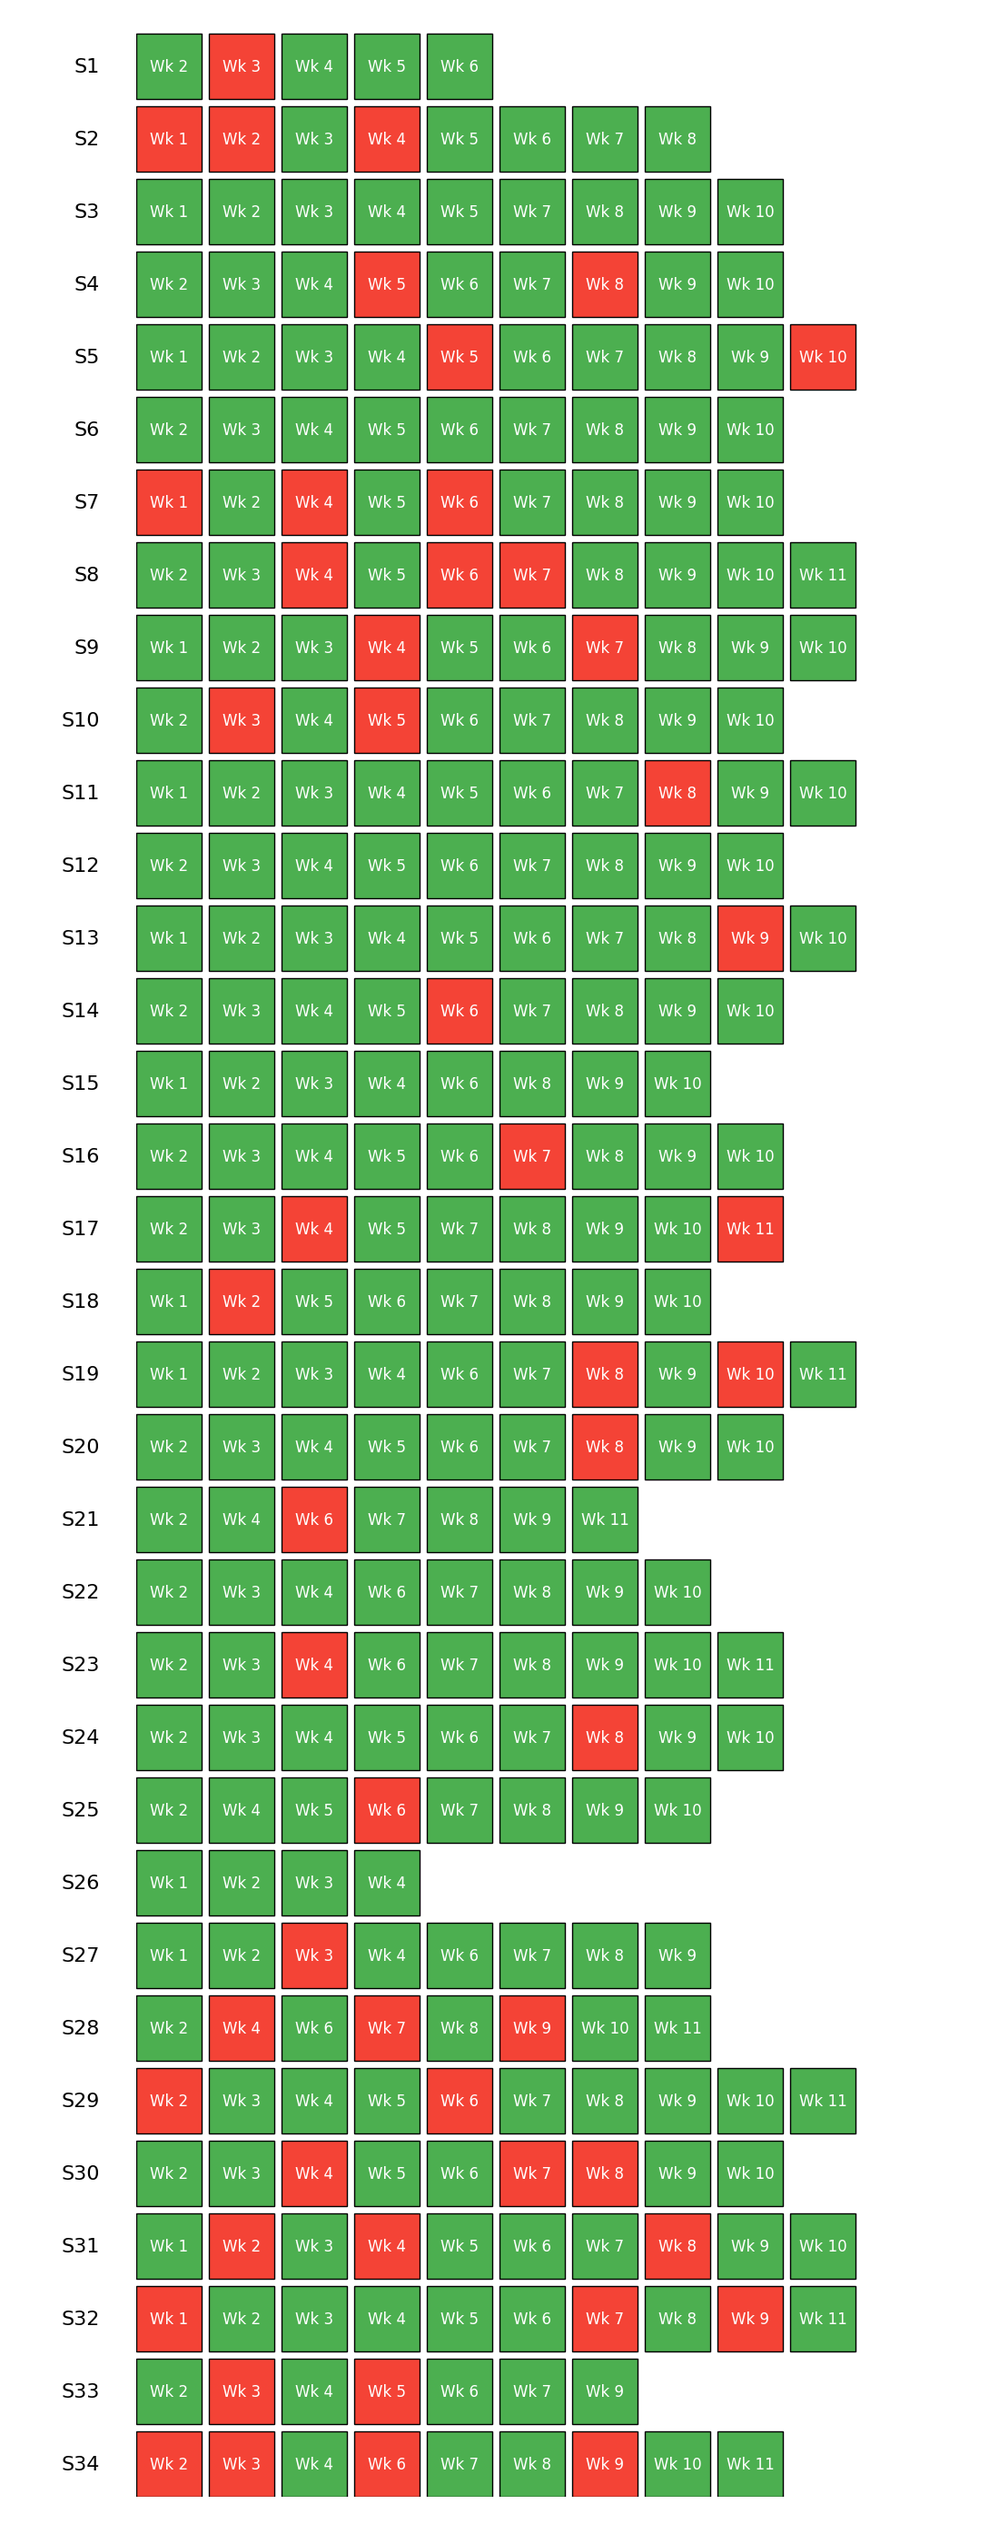
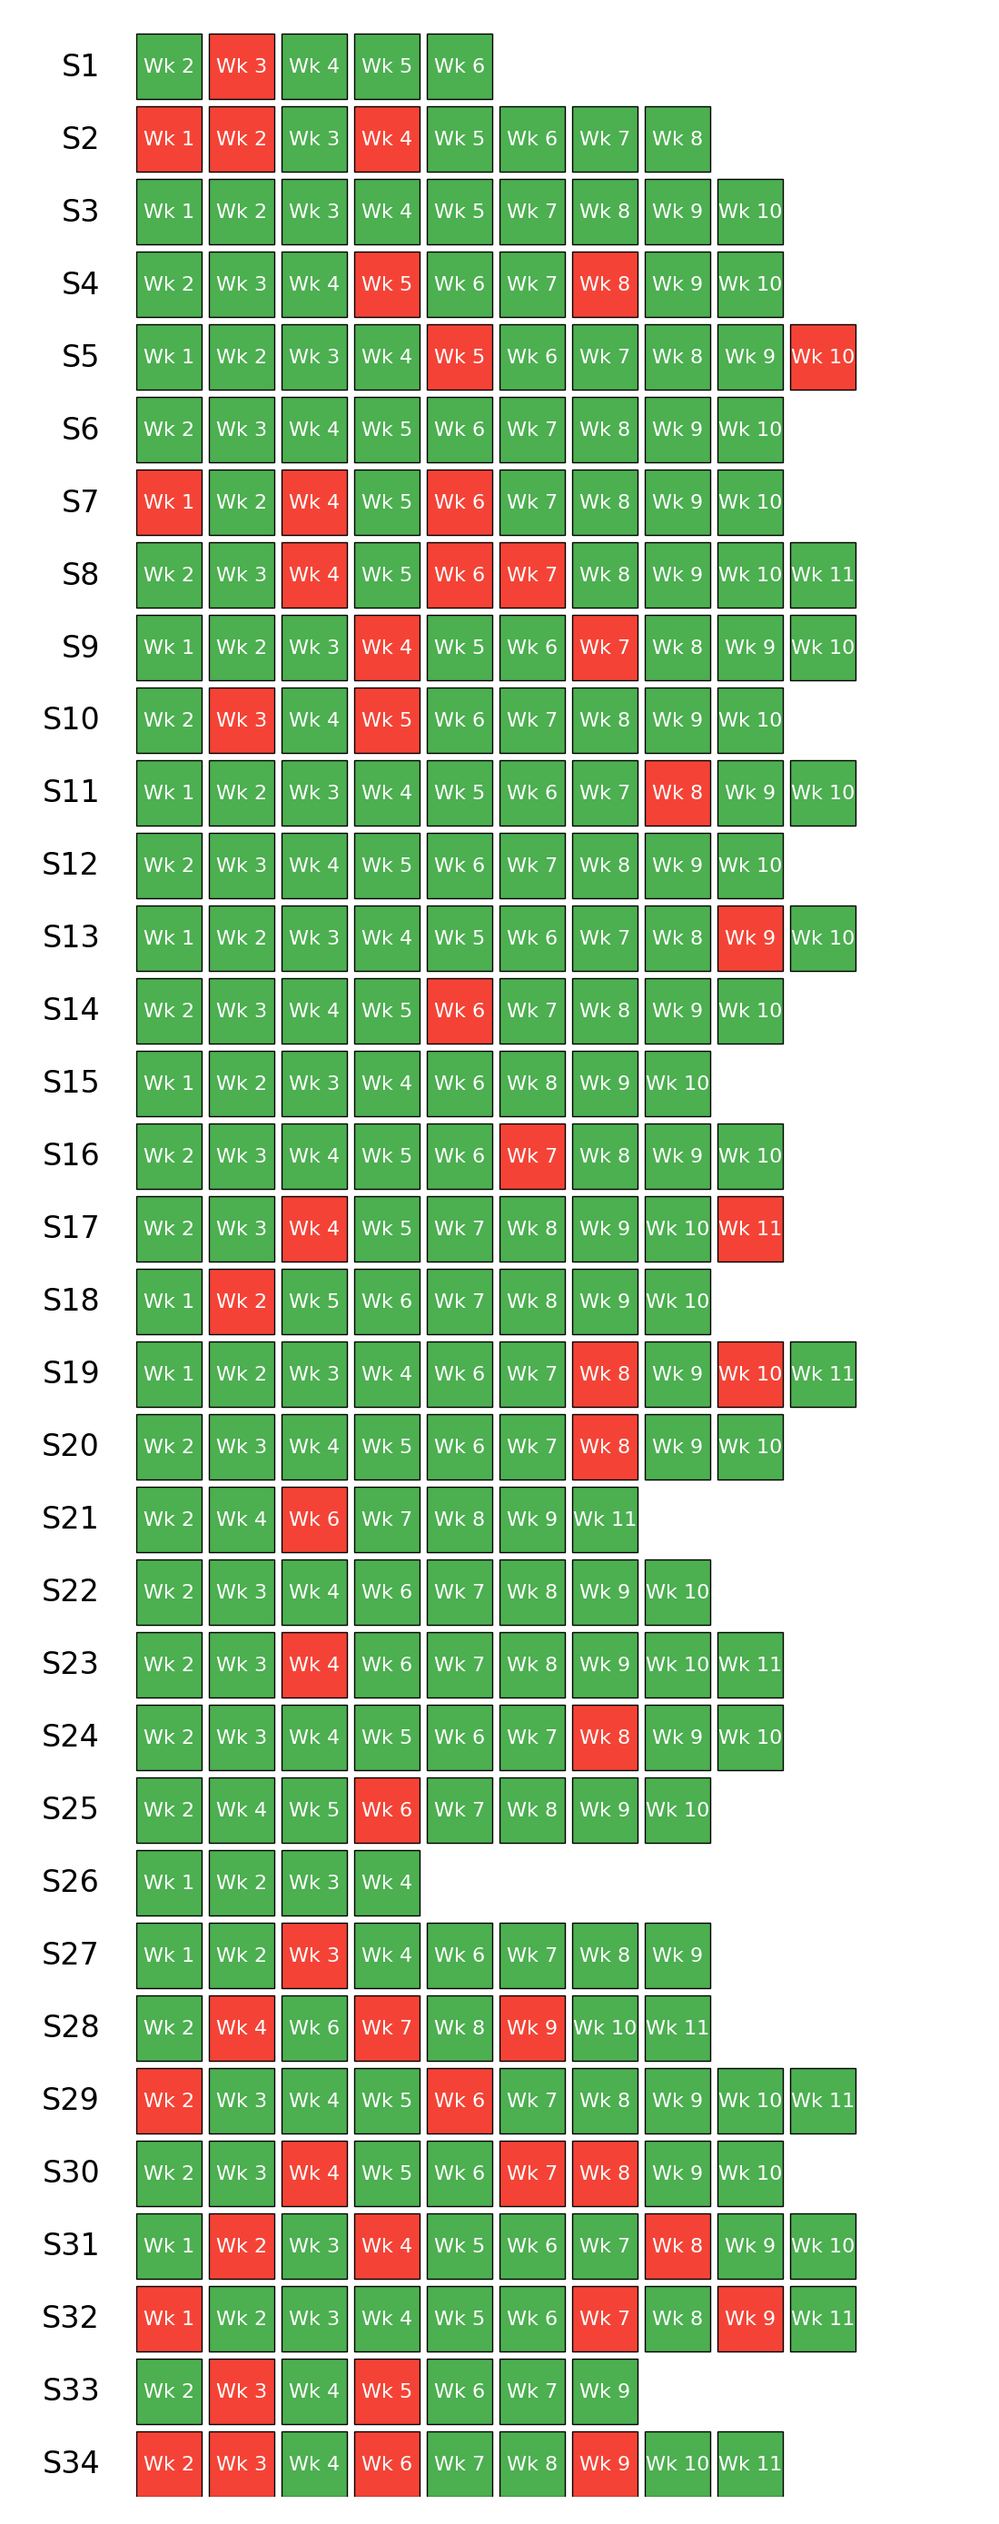
2.2 J/gamma图合并

diff --git a/train.py b/train.py
@@ -310,9 +310,9 @@ def plot_accuracy_grid(per_season_squares: Dict[int, List[Dict]], out_path: str)
                 rect = plt.Rectangle((col_idx, len(seasons_col)-1-row_idx), 0.9, 0.9, facecolor=color, edgecolor='black', linewidth=0.5)
                 ax.add_patch(rect)
                 label = f"Wk {cell['week']}" if not cell["is_champion"] else "Champ"
-                ax.text(col_idx+0.45, len(seasons_col)-1-row_idx+0.45, label, ha='center', va='center', fontsize=6, color='white')
+                ax.text(col_idx+0.45, len(seasons_col)-1-row_idx+0.45, label, ha='center', va='center', fontsize=8, color='white')
             # 标注赛季号
-            ax.text(-0.5, len(seasons_col)-1-row_idx+0.45, f"S{s}", ha='right', va='center', fontsize=8)
+            ax.text(-0.5, len(seasons_col)-1-row_idx+0.45, f"S{s}", ha='right', va='center', fontsize=12)
 
     draw_column(axes[0][0], left_seasons)
     # 右列可能为空（当季数 <= rows_per_col）
@@ -354,8 +354,8 @@ def plot_accuracy_grid_single_column(per_season_squares: Dict[int, List[Dict]], 
             rect = plt.Rectangle((col_idx, len(seasons)-1-row_idx), 0.9, 0.9, facecolor=color, edgecolor='black', linewidth=0.5)
             ax.add_patch(rect)
             label = f"Wk {cell['week']}" if not cell["is_champion"] else "Champ"
-            ax.text(col_idx+0.45, len(seasons)-1-row_idx+0.45, label, ha='center', va='center', fontsize=6, color='white')
-        ax.text(-0.5, len(seasons)-1-row_idx+0.45, f"S{s}", ha='right', va='center', fontsize=8)
+            ax.text(col_idx+0.45, len(seasons)-1-row_idx+0.45, label, ha='center', va='center', fontsize=8, color='white')
+        ax.text(-0.5, len(seasons)-1-row_idx+0.45, f"S{s}", ha='right', va='center', fontsize=12)
 
     os.makedirs(os.path.dirname(out_path), exist_ok=True)
     plt.tight_layout()
@@ -831,7 +831,7 @@ def build_consistency_twostage_vs_rankpure(model: VotingModel, events: List[Even
     return rates_out, squares_ts_vs_r
 
 
-def analyze_gamma_vs_age(df: pd.DataFrame, contestants: List[Contestant], model: VotingModel, out_dir: str):
+def analyze_gamma_vs_age(df: pd.DataFrame, contestants: List[Contestant], model: VotingModel, out_dir: str, plot: bool = True):
     # 使用训练好的 gamma 与 df 的 celebrity_age_during_season 做散点与回归（线性/二次择优）
     if plt is None:
         print("未安装 matplotlib，跳过 gamma~age 分析。")
@@ -849,7 +849,12 @@ def analyze_gamma_vs_age(df: pd.DataFrame, contestants: List[Contestant], model:
         ages.append(float(age_val))
         gammas.append(float(model.gamma[i].item()))
     if len(ages) < 3:
-        print("gamma~age 数据不足，跳过绘图。")
+        print("gamma~age 样本不足，跳过绘图但仍输出 JSON。")
+        # 即便样本不足，仍然输出空/占位 JSON
+        out_json = {"slope": None, "intercept": None, "r2": None, "n": int(len(ages))}
+        os.makedirs(out_dir, exist_ok=True)
+        with open(os.path.join(out_dir, "gamma_vs_age_regression.json"), "w", encoding="utf-8") as f:
+            json.dump(out_json, f, ensure_ascii=False, indent=2)
         return
     x = np.array(ages)
     y = np.array(gammas)
@@ -862,19 +867,20 @@ def analyze_gamma_vs_age(df: pd.DataFrame, contestants: List[Contestant], model:
         ss_tot = np.sum((y_true - y_true.mean())**2)
         return 1.0 - (ss_res/ss_tot if ss_tot > 0 else 0.0)
     r2_lin = r2(y, y1)
-    fig, ax = plt.subplots(figsize=(6, 4))
-    ax.scatter(x, y, s=10, alpha=0.7, label="gamma vs age")
-    # 绘制线性拟合曲线（按 x 范围排序）
-    xline = np.linspace(x.min(), x.max(), 200)
-    yline1 = p1[0]*xline + p1[1]
-    ax.plot(xline, yline1, color='tab:orange', linewidth=1.5, label=f"Linear R^2={r2_lin:.3f}")
-    ax.set_title("gamma ~ age (linear regression)")
-    ax.set_xlabel("celebrity_age_during_season")
-    ax.set_ylabel("gamma")
-    ax.legend(fontsize=8)
-    plt.tight_layout()
-    plt.savefig(os.path.join(out_dir, "gamma_vs_age_scatter_regression.png"), dpi=200)
-    plt.close(fig)
+    if plot and plt is not None:
+        fig, ax = plt.subplots(figsize=(6, 4))
+        ax.scatter(x, y, s=10, alpha=0.7, label="gamma vs age")
+        # 绘制线性拟合曲线（按 x 范围排序）
+        xline = np.linspace(x.min(), x.max(), 200)
+        yline1 = p1[0]*xline + p1[1]
+        ax.plot(xline, yline1, color='tab:orange', linewidth=1.5, label=f"Linear R^2={r2_lin:.3f}")
+        ax.set_title("gamma ~ age (linear regression)")
+        ax.set_xlabel("celebrity_age_during_season")
+        ax.set_ylabel("gamma")
+        ax.legend(fontsize=8)
+        plt.tight_layout()
+        plt.savefig(os.path.join(out_dir, "gamma_vs_age_scatter_regression.png"), dpi=200)
+        plt.close(fig)
     # 输出线性回归系数到 JSON
     out_json = {
         "slope": float(p1[0]),
@@ -886,7 +892,7 @@ def analyze_gamma_vs_age(df: pd.DataFrame, contestants: List[Contestant], model:
         json.dump(out_json, f, ensure_ascii=False, indent=2)
 
 
-def analyze_Jmean_vs_age(df: pd.DataFrame, contestants: List[Contestant], J_mean: np.ndarray, out_dir: str):
+def analyze_Jmean_vs_age(df: pd.DataFrame, contestants: List[Contestant], J_mean: np.ndarray, out_dir: str, plot: bool = True):
     # 使用每位选手的 J_mean 与 df 的 celebrity_age_during_season 做散点与线性回归
     if plt is None:
         print("未安装 matplotlib，跳过 J_mean~age 分析。")
@@ -905,7 +911,11 @@ def analyze_Jmean_vs_age(df: pd.DataFrame, contestants: List[Contestant], J_mean
         ages.append(float(age_val))
         jvals.append(float(jv))
     if len(ages) < 3:
-        print("J_mean~age 数据不足，跳过绘图。")
+        print("J_mean~age 样本不足，跳过绘图但仍输出 JSON。")
+        out_json = {"slope": None, "intercept": None, "r2": None, "n": int(len(ages))}
+        os.makedirs(out_dir, exist_ok=True)
+        with open(os.path.join(out_dir, "J_mean_vs_age_regression.json"), "w", encoding="utf-8") as f:
+            json.dump(out_json, f, ensure_ascii=False, indent=2)
         return
     x = np.array(ages)
     y = np.array(jvals)
@@ -917,18 +927,19 @@ def analyze_Jmean_vs_age(df: pd.DataFrame, contestants: List[Contestant], J_mean
         ss_tot = np.sum((y_true - y_true.mean())**2)
         return 1.0 - (ss_res/ss_tot if ss_tot > 0 else 0.0)
     r2_lin = r2(y, y1)
-    fig, ax = plt.subplots(figsize=(6, 4))
-    ax.scatter(x, y, s=10, alpha=0.7, label="J_mean vs age")
-    xline = np.linspace(x.min(), x.max(), 200)
-    yline1 = p1[0]*xline + p1[1]
-    ax.plot(xline, yline1, color='tab:green', linewidth=1.5, label=f"Linear R^2={r2_lin:.3f}")
-    ax.set_title("J_mean ~ age (linear regression)")
-    ax.set_xlabel("celebrity_age_during_season")
-    ax.set_ylabel("J_mean")
-    ax.legend(fontsize=8)
-    plt.tight_layout()
-    plt.savefig(os.path.join(out_dir, "J_mean_vs_age_scatter_regression.png"), dpi=200)
-    plt.close(fig)
+    if plot and plt is not None:
+        fig, ax = plt.subplots(figsize=(6, 4))
+        ax.scatter(x, y, s=10, alpha=0.7, label="J_mean vs age")
+        xline = np.linspace(x.min(), x.max(), 200)
+        yline1 = p1[0]*xline + p1[1]
+        ax.plot(xline, yline1, color='tab:green', linewidth=1.5, label=f"Linear R^2={r2_lin:.3f}")
+        ax.set_title("J_mean ~ age (linear regression)")
+        ax.set_xlabel("celebrity_age_during_season")
+        ax.set_ylabel("J_mean")
+        ax.legend(fontsize=8)
+        plt.tight_layout()
+        plt.savefig(os.path.join(out_dir, "J_mean_vs_age_scatter_regression.png"), dpi=200)
+        plt.close(fig)
     out_json = {
         "slope": float(p1[0]),
         "intercept": float(p1[1]),
@@ -1065,6 +1076,114 @@ def boxplot_value_by_category(df: pd.DataFrame, contestants: List[Contestant], v
     plt.savefig(out_path, dpi=200)
     plt.close(fig)
 
+
+def boxplot_gamma_J_combined_by_category(df: pd.DataFrame, contestants: List[Contestant], model: VotingModel, J_mean: np.ndarray, column: str, title: str, out_path: str, min_count: int = 1):
+    # 合并 gamma 和 J_mean 的箱线图，左轴 gamma，右轴 J
+    if plt is None:
+        print(f"未安装 matplotlib，跳过 {title} 合并箱线图。")
+        return
+    groups_gamma: Dict[str, List[float]] = {}
+    groups_J: Dict[str, List[float]] = {}
+    gamma_vals = np.array([float(model.gamma[i].item()) for i in range(len(contestants))], dtype=float)
+    for i, c in enumerate(contestants):
+        row = c.row_idx
+        if row < 0 or row >= len(df):
+            continue
+        val_raw = df.loc[row, column] if column in df.columns else None
+        if (
+            val_raw is None
+            or (isinstance(val_raw, float) and np.isnan(val_raw))
+            or (isinstance(val_raw, str) and (val_raw.strip() == "" or val_raw.strip().lower() == "nan"))
+        ):
+            key = "non-america" if column == "celebrity_homestate" else "(Unknown)"
+        else:
+            key = str(val_raw)
+        g = gamma_vals[i] if i < len(gamma_vals) else np.nan
+        j = J_mean[i] if i < len(J_mean) else np.nan
+        if not np.isnan(g):
+            groups_gamma.setdefault(key, []).append(float(g))
+        if not np.isnan(j):
+            groups_J.setdefault(key, []).append(float(j))
+    # 过滤最少样本
+    keys = [k for k in groups_gamma.keys() if len(groups_gamma[k]) >= min_count and len(groups_J.get(k, [])) >= min_count]
+    if not keys:
+        print(f"{title} 数据不足，跳过合并箱线图。")
+        return
+    # 按每类的样本数排序并截断到前 20 类
+    keys.sort(key=lambda k: min(len(groups_gamma[k]), len(groups_J.get(k, []))), reverse=True)
+    keys = keys[:20]
+    data_gamma = [groups_gamma[k] for k in keys]
+    data_J = [groups_J[k] for k in keys]
+    positions = np.arange(1, len(keys) + 1)
+    fig, ax1 = plt.subplots(figsize=(max(9, len(keys)*0.7), 5))
+    ax2 = ax1.twinx()
+    bp1 = ax1.boxplot(data_gamma, positions=positions - 0.18, widths=0.32, patch_artist=True)
+    bp2 = ax2.boxplot(data_J, positions=positions + 0.18, widths=0.32, patch_artist=True)
+    # 着色与透明度
+    for patch in bp1['boxes']:
+        patch.set_facecolor('#1f77b4')
+        patch.set_alpha(0.6)
+    for patch in bp2['boxes']:
+        patch.set_facecolor('#ff7f0e')
+        patch.set_alpha(0.6)
+    # X 轴标签与 Y 轴标注
+    ax1.set_xticks(positions)
+    ax1.set_xticklabels(keys, rotation=30, ha='right', fontsize=9)
+    ax1.set_ylabel('gamma', color='#1f77b4')
+    ax2.set_ylabel('J_mean', color='#ff7f0e')
+    ax1.set_title(title)
+    # 图例
+    ax1.plot([], [], color='#1f77b4', label='gamma')
+    ax2.plot([], [], color='#ff7f0e', label='J_mean')
+    fig.legend(loc='upper right', fontsize=9)
+    plt.tight_layout()
+    os.makedirs(os.path.dirname(out_path), exist_ok=True)
+    plt.savefig(out_path, dpi=200)
+    plt.close(fig)
+
+
+def scatter_gamma_J_age_combined(df: pd.DataFrame, contestants: List[Contestant], model: VotingModel, J_mean: np.ndarray, out_path: str):
+    # 合并散点+线性回归：左轴 gamma ~ age，右轴 J_mean ~ age
+    if plt is None:
+        print("未安装 matplotlib，跳过合并散点图。")
+        return
+    ages, gammas, jvals = [], [], []
+    for i, c in enumerate(contestants):
+        row = c.row_idx
+        if row < 0 or row >= len(df):
+            continue
+        age_val = pd.to_numeric(df.loc[row, "celebrity_age_during_season"], errors="coerce")
+        g = float(model.gamma[i].item())
+        j = J_mean[i] if i < len(J_mean) else np.nan
+        if pd.isna(age_val) or np.isnan(j):
+            continue
+        ages.append(float(age_val)); gammas.append(g); jvals.append(float(j))
+    if len(ages) < 3:
+        print("gamma/J ~ age 数据不足，跳过绘图。")
+        return
+    x = np.array(ages)
+    yg = np.array(gammas)
+    yj = np.array(jvals)
+    # gamma 回归
+    pg = np.polyfit(x, yg, 1)
+    # J 回归
+    pj = np.polyfit(x, yj, 1)
+    fig, ax1 = plt.subplots(figsize=(7, 4))
+    ax2 = ax1.twinx()
+    ax1.scatter(x, yg, s=12, alpha=0.7, color='#1f77b4', label='gamma')
+    xline = np.linspace(x.min(), x.max(), 200)
+    ax1.plot(xline, pg[0]*xline+pg[1], color='#1f77b4', linewidth=1.4)
+    ax2.scatter(x, yj, s=12, alpha=0.7, color='#ff7f0e', label='J_mean')
+    ax2.plot(xline, pj[0]*xline+pj[1], color='#ff7f0e', linewidth=1.4)
+    ax1.set_xlabel('celebrity_age_during_season')
+    ax1.set_ylabel('gamma', color='#1f77b4')
+    ax2.set_ylabel('J_mean', color='#ff7f0e')
+    ax1.set_title('gamma & J_mean ~ age (linear regression)')
+    fig.legend(loc='upper right', fontsize=9)
+    plt.tight_layout()
+    os.makedirs(os.path.dirname(out_path), exist_ok=True)
+    plt.savefig(out_path, dpi=200)
+    plt.close(fig)
 
 def anova_oneway_by_category(df: pd.DataFrame, contestants: List[Contestant], values: np.ndarray, column: str, min_count: int = 2) -> Dict:
     # 返回 {k:组数, n:总样本, df_between, df_within, F, p (若可计算)}
@@ -1249,10 +1368,10 @@ def plot_controversy_for_one(df: pd.DataFrame, contestants: List[Contestant], ev
 
     # 绘制 4 x W 的方格图
     W = max(len(rc) for rc in rows_colors)
-    fig_w = max(8, W * 0.5 + 3)
+    fig_w = max(9, W * 0.5 + 4)  # 左侧为行标签预留空间
     fig_h = 3.5
     fig, ax = plt.subplots(figsize=(fig_w, fig_h))
-    ax.set_xlim(0, W)
+    ax.set_xlim(-1.2, W)
     ax.set_ylim(0, 4)
     ax.set_aspect('equal')
     ax.axis('off')
@@ -1263,14 +1382,15 @@ def plot_controversy_for_one(df: pd.DataFrame, contestants: List[Contestant], ev
             ax.add_patch(rect)
             text = rows_texts[r][w] if w < len(rows_texts[r]) else ''
             if text:
-                ax.text(w + 0.45, 3 - r + 0.45, text, ha='center', va='center', fontsize=6, color='white')
-        # 行标签
-        ax.text(-0.5, 3 - r + 0.45, rows_labels[r], ha='right', va='center', fontsize=8)
-    # 列标签为周数
+                ax.text(w + 0.45, 3 - r + 0.45, text, ha='center', va='center', fontsize=10, color='white')
+    # 行标签（第 1 到 W 周）
+    # 左侧行名称标签
+    for r, label in enumerate(rows_labels):
+        ax.text(-0.6, 3 - r + 0.45, label, ha='right', va='center', fontsize=12)
     for w in range(W):
-        ax.text(w + 0.45, -0.2, str(w + 1), ha='center', va='top', fontsize=8)
+        ax.text(w + 0.45, -0.2, str(w + 1), ha='center', va='top', fontsize=11)
     title = f"Season {season} - {celeb_name}"
-    ax.set_title(title, fontsize=10, pad=6)
+    ax.set_title(title, fontsize=14, pad=8)
     os.makedirs(os.path.dirname(out_path), exist_ok=True)
     plt.tight_layout()
     plt.savefig(out_path, dpi=200)
@@ -1433,27 +1553,24 @@ def infer(data_path: str, best_path: str, out_dir: str, weeks: int = 11, damp: f
     # 已删除不需要的 mean(V)~fans 回归散点与 SD 周度箱线图
     # 名人特征分析（第7节）：基于训练好的 gamma/J_mean 进行回归、分类箱线图与 ANOVA
     features_out = os.path.join(out_dir, "features")
-    analyze_gamma_vs_age(df, contestants, model, features_out)
-    boxplot_gamma_by_category(df, contestants, model, "celebrity_industry", "gamma by industry", os.path.join(features_out, "gamma_by_industry.png"), min_count=3)
-    boxplot_gamma_by_category(df, contestants, model, "celebrity_homestate", "gamma by homestate", os.path.join(features_out, "gamma_by_homestate.png"), min_count=3)
+    # 计算 J_mean（供合并图）
+    J_mean = compute_contestant_J_mean(df, contestants)
+    # 年龄回归仅输出 JSON，图合并到双轴散点
+    analyze_gamma_vs_age(df, contestants, model, features_out, plot=False)
+    analyze_Jmean_vs_age(df, contestants, J_mean, features_out, plot=False)
+    scatter_gamma_J_age_combined(df, contestants, model, J_mean, os.path.join(features_out, "gamma_J_age_combined.png"))
     # 注意列名可能包含斜杠，按原样访问
     col_homecountry = "celebrity_homecountry/region" if "celebrity_homecountry/region" in df.columns else "celebrity_homecountry"
-    boxplot_gamma_by_category(df, contestants, model, col_homecountry, "gamma by homecountry/region", os.path.join(features_out, "gamma_by_homecountry.png"), min_count=3)
-    # 新增：gamma by professional dancer partner，列名为 ballroom_partner
+    # 专业舞者搭档列
     col_pro = "ballroom_partner" if "ballroom_partner" in df.columns else None
     if col_pro is None:
         print("未找到 ballroom_partner 列，跳过专业舞者搭档相关图表。")
-    else:
-        boxplot_gamma_by_category(df, contestants, model, col_pro, "gamma by professional partner", os.path.join(features_out, "gamma_by_pro_partner.png"), min_count=3)
-
-    # 计算 J_mean，并绘制：J_mean vs age 散点 + 分类箱线图
-    J_mean = compute_contestant_J_mean(df, contestants)
-    analyze_Jmean_vs_age(df, contestants, J_mean, features_out)
-    boxplot_value_by_category(df, contestants, J_mean, "celebrity_industry", "J_mean by industry", os.path.join(features_out, "J_mean_by_industry.png"), min_count=3)
-    boxplot_value_by_category(df, contestants, J_mean, "celebrity_homestate", "J_mean by homestate", os.path.join(features_out, "J_mean_by_homestate.png"), min_count=3)
-    boxplot_value_by_category(df, contestants, J_mean, col_homecountry, "J_mean by homecountry/region", os.path.join(features_out, "J_mean_by_homecountry.png"), min_count=3)
+    # 合并分类箱线图（四类）
+    boxplot_gamma_J_combined_by_category(df, contestants, model, J_mean, "celebrity_industry", "gamma & J_mean by industry", os.path.join(features_out, "combined_boxplot_industry.png"), min_count=3)
+    boxplot_gamma_J_combined_by_category(df, contestants, model, J_mean, "celebrity_homestate", "gamma & J_mean by homestate", os.path.join(features_out, "combined_boxplot_homestate.png"), min_count=3)
+    boxplot_gamma_J_combined_by_category(df, contestants, model, J_mean, col_homecountry, "gamma & J_mean by homecountry/region", os.path.join(features_out, "combined_boxplot_homecountry.png"), min_count=3)
     if col_pro:
-        boxplot_value_by_category(df, contestants, J_mean, col_pro, "J_mean by professional partner", os.path.join(features_out, "J_mean_by_pro_partner.png"), min_count=3)
+        boxplot_gamma_J_combined_by_category(df, contestants, model, J_mean, col_pro, "gamma & J_mean by professional partner", os.path.join(features_out, "combined_boxplot_pro_partner.png"), min_count=3)
 
     # ANOVA：gamma 与 J_mean 分别对上述分类变量
     anova_cols = ["celebrity_industry", "celebrity_homestate", col_homecountry]
